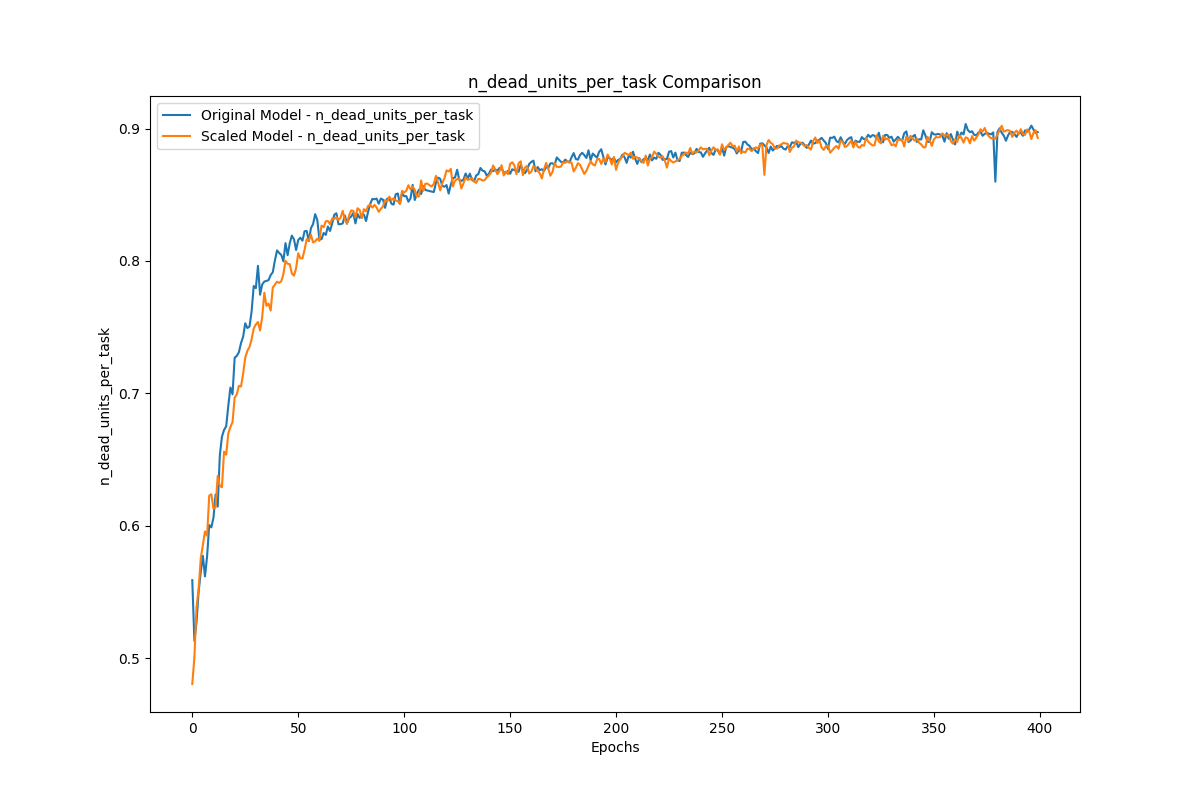
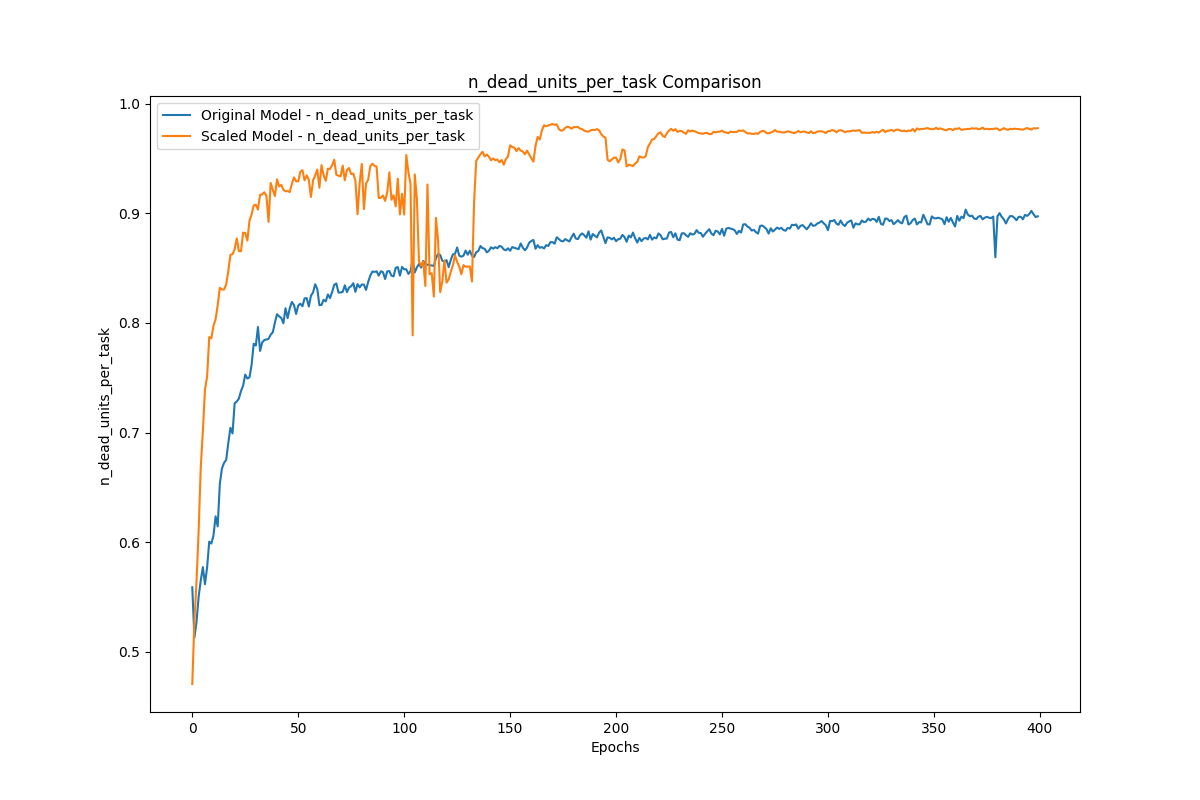
some plots

diff --git a/core/plot/plotting.py b/core/plot/plotting.py
@@ -15,11 +15,15 @@ def generate_file_paths(mode):
         return ("weightnorm_loss.png",
                 "weightnorm_accuracy.png",
                 "weightnorm_plasticity.png")
+    elif mode == "loss_kernel_thresholding_try_1.json":
+        return ("kernel_thresholding_loss.png",
+                "kernel_thresholding_accuracy.png",
+                "kernel_thresholding_plasticity.png")
     else:
         raise ValueError(f"Invalid mode: {mode}")
 
 # Input mode
-mode = "loss_adativeNoisescaled.json"  # Change this to your desired file name
+mode = "loss_kernel_thresholding_try_1.json"  # Change this to your desired file name
 
 # Generate save paths based on mode
 save_loss_path, save_accuracy_path, save_plasticity_path = generate_file_paths(mode)
@@ -35,7 +39,7 @@ with open(mode, "r") as file:
 epochs_og = range(len(loss_og["losses"]))
 epochs_scaled = range(len(loss_scaled["losses"]))
 
-"""
+
 # Plot loss
 plt.figure(figsize=(12, 8))  # Set figure size to 12x8 inches
 plt.plot(epochs_og, loss_og["losses"], label="Original Model - Loss")
@@ -75,3 +79,4 @@ plt.ylabel("n_dead_units_per_task ")
 plt.title("n_dead_units_per_task Comparison")
 plt.legend()
 plt.savefig("n_dead_units_per_task.png")  # Save the figure as 'plasticity.png'
+"""
